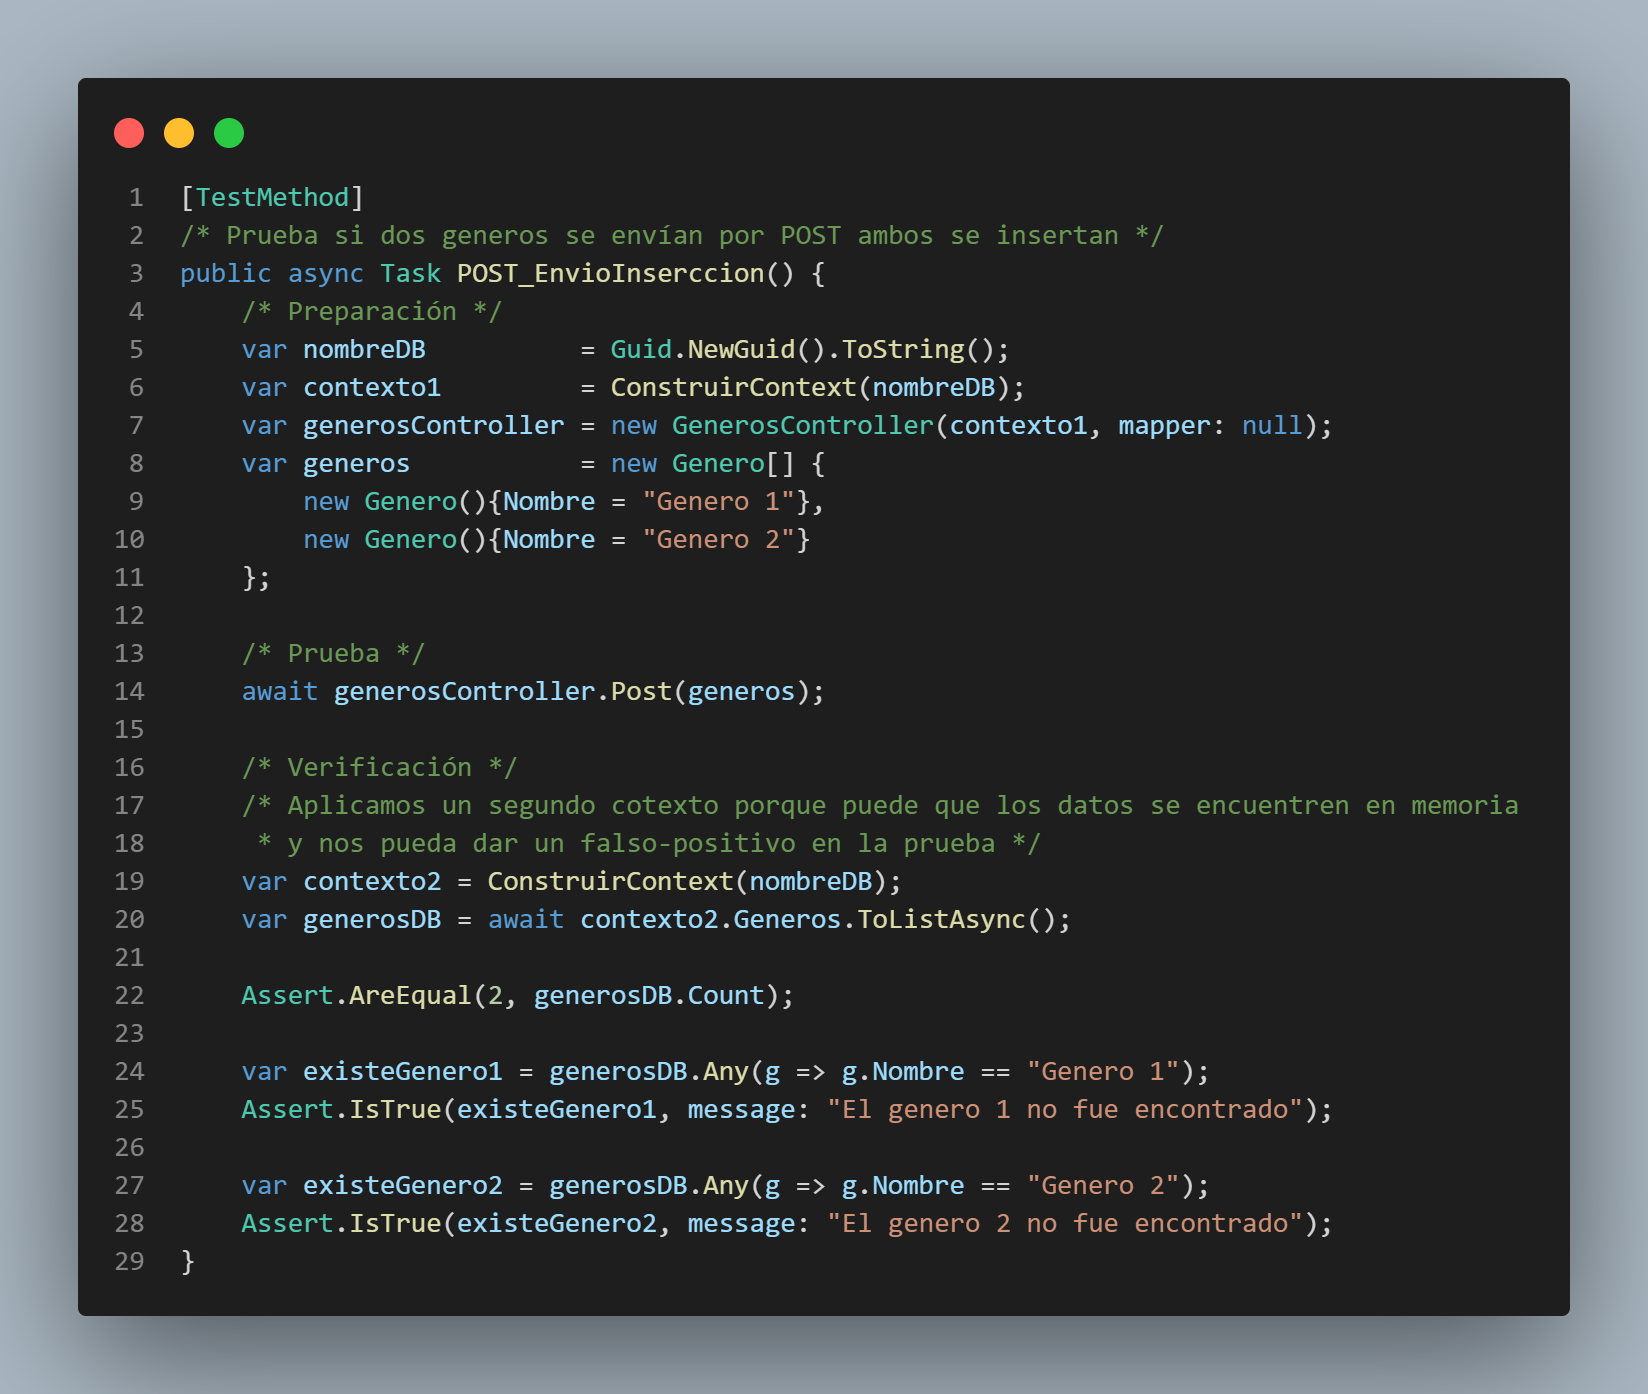
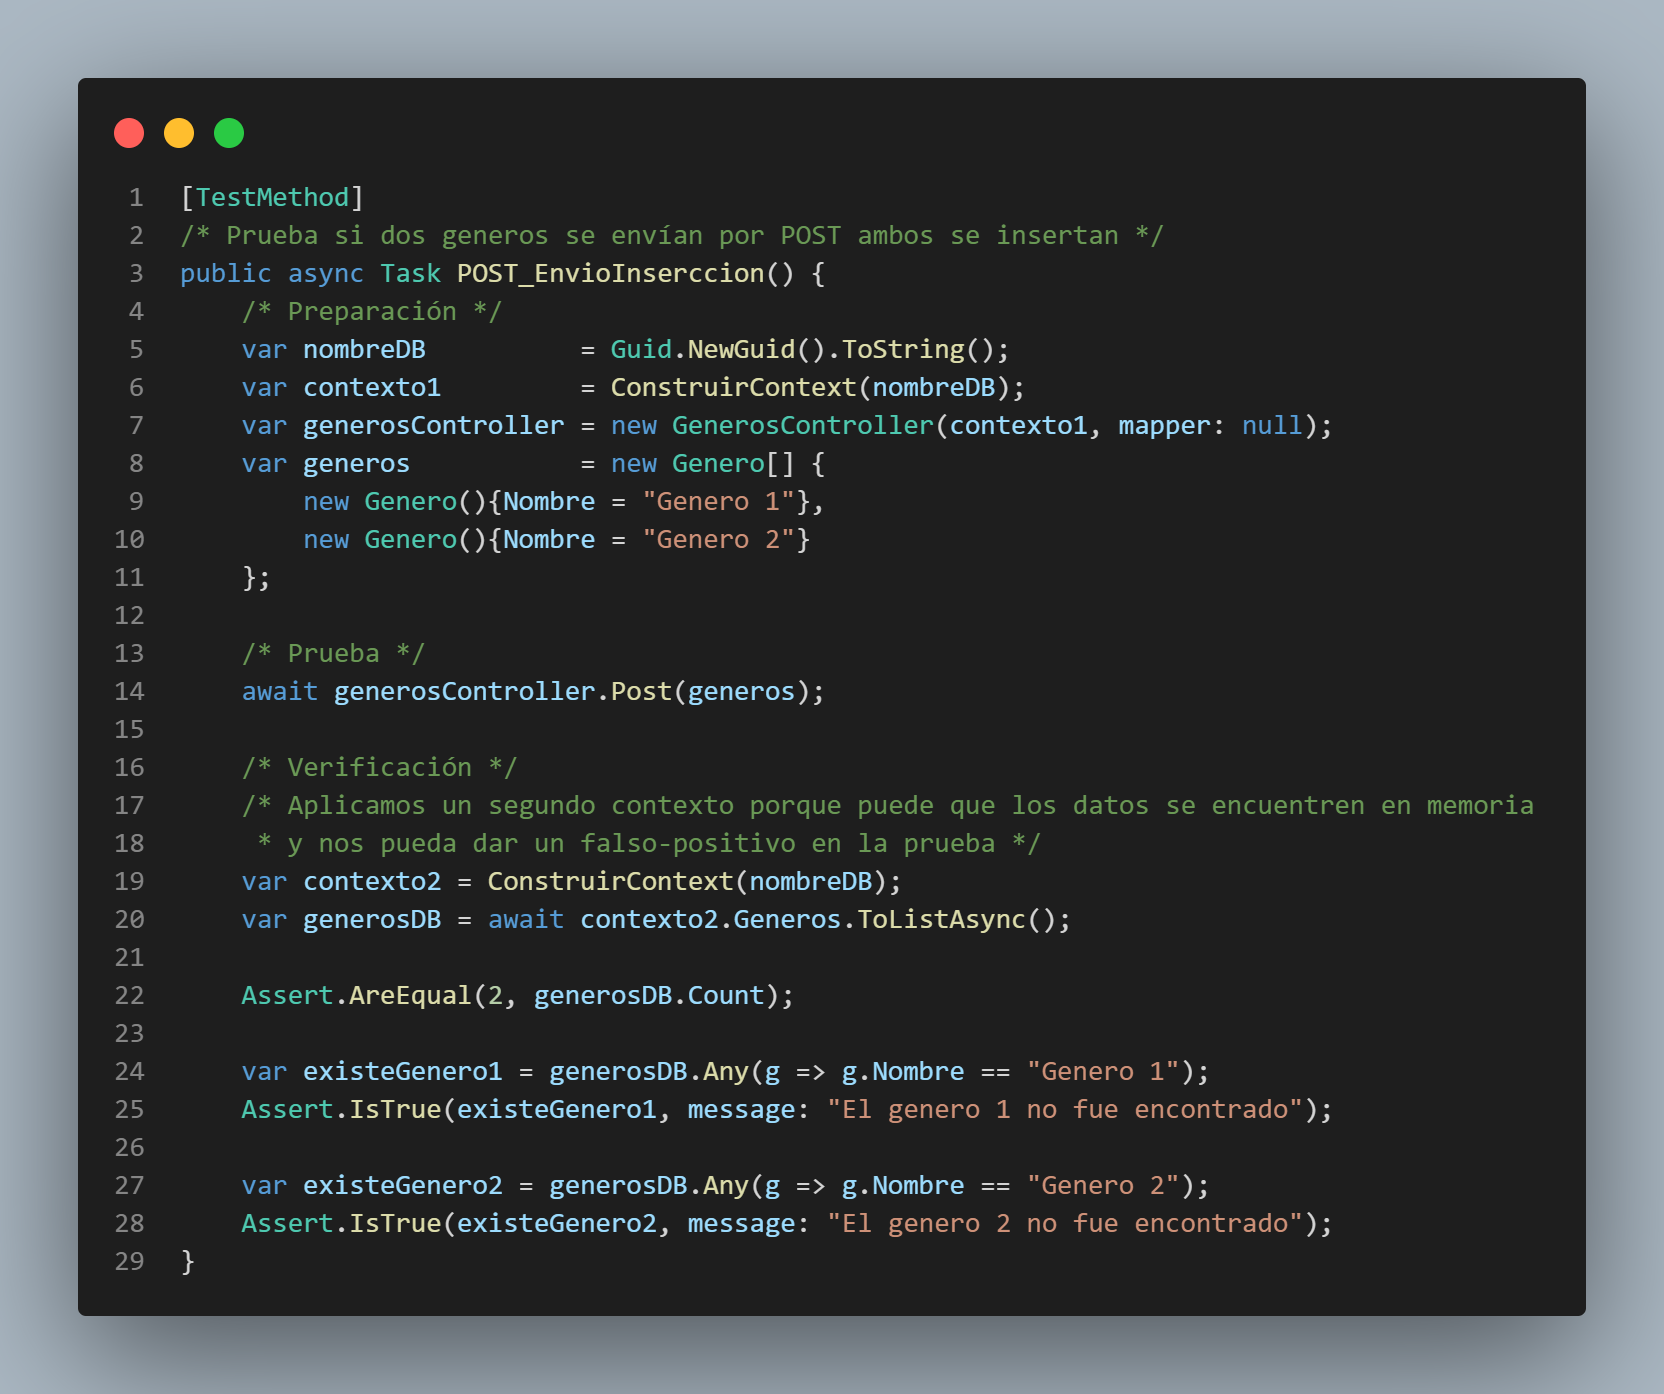
Configurando AutoMapper en GenerosControllerPrueba.cs y BasePrueba.cs

diff --git a/PeliculasAPIPruebas/GenerosControllerPruebas.cs b/PeliculasAPIPruebas/GenerosControllerPruebas.cs
@@ -26,7 +26,7 @@ namespace PeliculasAPIPruebas{
             await generosController.Post(generos);
 
             /* Verificación */
-            /* Aplicamos un segundo cotexto porque puede que los datos se encuentren en memoria
+            /* Aplicamos un segundo contexto porque puede que los datos se encuentren en memoria
              * y nos pueda dar un falso-positivo en la prueba */
             var contexto2 = ConstruirContext(nombreDB);
             var generosDB = await contexto2.Generos.ToListAsync();
@@ -38,6 +38,63 @@ namespace PeliculasAPIPruebas{
 
             var existeGenero2 = generosDB.Any(g => g.Nombre == "Genero 2");
             Assert.IsTrue(existeGenero2, message: "El genero 2 no fue encontrado");
+        }
+
+        [TestMethod]
+        /* Si se manda un genero con NombreOriginal incorrecto, una excepcion es arrojada */
+        public async Task PUT_EnvioExcepcion() {
+            /* Preparación */
+            var nombreDB     = Guid.NewGuid().ToString();
+            var contexto1    = ConstruirContext(nombreDB);
+            var mapper       = ConfigurarAutoMapper();
+            var generoPrueba = new Genero() { Nombre = "Genero 1" };
+
+            contexto1.Add(generoPrueba);
+            await contexto1.SaveChangesAsync();
+
+            var contexto2         = ConstruirContext(nombreDB);
+            var generosController = new GenerosController(contexto2, mapper);
+
+            /* Prueba y Verificación */
+            await Assert.ThrowsExceptionAsync<DbUpdateConcurrencyException>(() =>
+                generosController.Put(new PeliculasWebAPI.DTOs.GeneroActualizacionDTO() {
+                    Identificador   = generoPrueba.Identificador,
+                    Nombre          = "Genero 2",
+                    Nombre_Original = "Nombre incorrecto"
+                })
+            );
+        }
+
+        [TestMethod]
+        /* Si envio un genero con nombreOriginal correcto, entonces actualiza el genero */
+        public async Task PUT_EnvioCorrecto() {
+            /* Preparación */
+            var nombreDB     = Guid.NewGuid().ToString();
+            var contexto1    = ConstruirContext(nombreDB);
+            var mapper       = ConfigurarAutoMapper();
+            var generoPrueba = new Genero() { Nombre = "Genero 1" };
+
+            contexto1.Add(generoPrueba);
+            await contexto1.SaveChangesAsync();
+
+            var contexto2         = ConstruirContext(nombreDB);
+            var generosController = new GenerosController(contexto2, mapper);
+
+            /* Prueba */
+
+            await generosController.Put(new PeliculasWebAPI.DTOs.GeneroActualizacionDTO() {
+                Identificador   = generoPrueba.Identificador,
+                Nombre          = "Genero 2",
+                Nombre_Original = "Genero 1"
+            });
+
+            /* Verificación */
+
+            var contexto3 = ConstruirContext(nombreDB);
+            var generoDB  = await contexto3.Generos.SingleAsync();
+
+            Assert.AreEqual(generoPrueba.Identificador, generoDB.Identificador);
+            Assert.AreEqual("Genero 2", generoDB.Nombre);
         }
     }
 }

diff --git a/PeliculasAPIPruebas/BasePruebas.cs b/PeliculasAPIPruebas/BasePruebas.cs
@@ -1,4 +1,5 @@
-using Microsoft.EntityFrameworkCore;
+using AutoMapper;
+using Microsoft.EntityFrameworkCore;
 using PeliculasWebAPI;
 using PeliculasWebAPI.Servicios;
 using System;
@@ -18,6 +19,16 @@ namespace PeliculasAPIPruebas {
             var dbContext   = new ApplicationDBContext(opc, serviceUser, eventosDbContextService: null);
 
             return dbContext;
-        } 
+        }
+
+        /* Configurando Automapper */
+        protected IMapper ConfigurarAutoMapper() {
+            var config = new MapperConfiguration(opc => {
+                /* AutoMapperProfiles es la clase de configuraciones del mapeo de automapper */
+                opc.AddProfile(new AutoMapperProfiles());
+            });
+
+            return config.CreateMapper();
+        }
     }
 }

diff --git a/PeliculasWebAPI/README.md b/PeliculasWebAPI/README.md
@@ -6,6 +6,7 @@ ___
 3. __Configurando el Proveedor en Memoria.__
 4. __Prueba Unitaria en Entity Framework.__
 5. __Configurando AutoMapper - Pruebas Negativas.__
+6. __Usando LocalDb en Pruebas Automáticas.__
 
 #### Pruebas Unitarias
 
@@ -72,5 +73,22 @@ Al ejecutar la prueba, esta da resultado positivo.
 
 ![GenerosControllerPruebasPrueba](/PeliculasWebAPI/images/Post_EnvioInserccionGeneros%20Resultado.PNG)
 
-#### Configurando AutoMapper para pruebas - Pruebas Negativas
+#### Configurando AutoMapper para Pruebas - Pruebas Negativas
 
+Primero configuramos nuestro AutoMapper. 
+
+![automapper](/PeliculasWebAPI/images/ConfigurandoAutoMapper.png)
+
+Vamos a simular una prueba negativa donde un endpoint debe de volver una excepción en caso de que se mande algo incorrecto en `GenerosControllerPrueba.cs`. 
+
+![PutEnvioExcepcion](/PeliculasWebAPI/images/PUR_EnvioExcepcion.png)
+
+Al simular la prueba positiva en `GenerosControllerPrueba.cs`.
+
+![PutEnvioCorrecto](/PeliculasWebAPI/images/PUR_EnvioCorrecto.png)
+
+Al correr las pruebas estás dan como éxito. 
+
+![PruebasExitosas](/PeliculasWebAPI/images/pruebaMapperCorrecta.PNG)
+
+#### Usando LocalDb en Pruebas Automáticas
